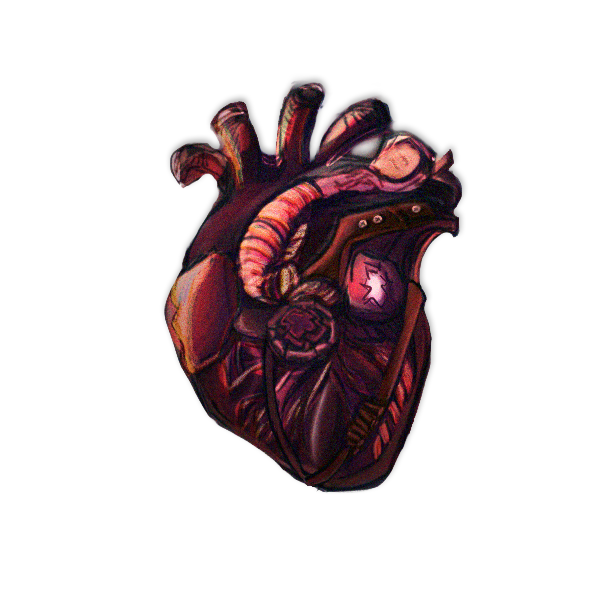
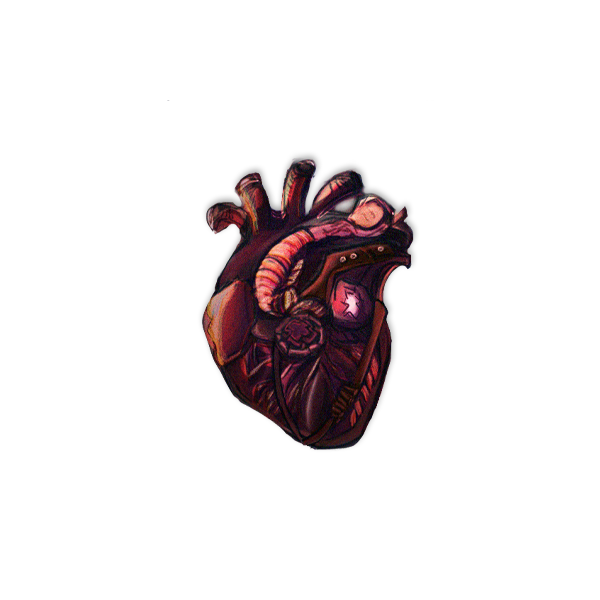
meow

Changed region(s): [[0.27, 0.12, 0.78, 0.84]]

diff --git a/styles.css b/styles.css
@@ -265,33 +265,33 @@ body {
 
 .project-art-heart {
   background:
-    radial-gradient(circle at 32% 42%, rgba(122, 37, 31, 0.48), transparent 52%),
-    linear-gradient(150deg, #25171a, #0f131d 55%, #0c1118);
+    url('Images/mech%20heart%202.png'),
+    radial-gradient(circle at 32% 42%, rgba(122, 37, 31, 0.34), transparent 52%),
+    linear-gradient(150deg, rgba(37, 23, 26, 0.34), rgba(15, 19, 29, 0.56) 55%, rgba(12, 17, 24, 0.72));
+  background-size: cover;
+  background-position: center;
 }
 
 .project-art-character {
-  background-image:
-    linear-gradient(160deg, rgba(196, 182, 160, 0.85), rgba(129, 118, 103, 0.82)),
-    repeating-linear-gradient(to right, rgba(48, 42, 36, 0.2) 0, rgba(48, 42, 36, 0.2) 1px, transparent 1px, transparent 28px),
-    url('Images/caster%20expressions%20sheet.png');
+  background-image: url('Images/caster%20expressions%20sheet.png');
   background-size: cover;
   background-position: 59% center;
 }
 
 .project-art-ui {
   background-image:
-    radial-gradient(circle at 72% 35%, rgba(154, 120, 68, 0.26), transparent 55%),
-    linear-gradient(130deg, #1b1920, #0f141d 50%, #1b130f),
-    url('Images/collector%20.png');
+    url('Images/motiongraphic.png'),
+    radial-gradient(circle at 72% 35%, rgba(154, 120, 68, 0.2), transparent 55%),
+    linear-gradient(130deg, rgba(27, 25, 32, 0.32), rgba(15, 20, 29, 0.5) 50%, rgba(27, 19, 15, 0.62));
   background-size: cover;
   background-position: center;
 }
 
 .project-art-env {
   background-image:
+    url('Images/walk_bg_pb.png'),
     radial-gradient(circle at 42% 44%, rgba(201, 154, 90, 0.24), transparent 50%),
-    linear-gradient(140deg, #2a2017, #16161a 55%, #121927),
-    url('Images/wide_alley(1).png');
+    linear-gradient(140deg, rgba(42, 32, 23, 0.34), rgba(22, 22, 26, 0.56) 55%, rgba(18, 25, 39, 0.66));
   background-size: cover;
   background-position: center;
 }

diff --git a/mechanical-heart.css b/mechanical-heart.css
@@ -642,15 +642,18 @@ body {
 
 .final-thumb-ui {
   background:
-    radial-gradient(circle at 65% 40%, rgba(194, 155, 95, 0.18), transparent 52%),
-    linear-gradient(145deg, #2a2019, #171a22 58%, #131b27);
+    url('Images/motiongraphic.png'),
+    radial-gradient(circle at 65% 40%, rgba(194, 155, 95, 0.16), transparent 52%),
+    linear-gradient(145deg, rgba(42, 32, 25, 0.34), rgba(23, 26, 34, 0.52) 58%, rgba(19, 27, 39, 0.64));
+  background-size: cover;
+  background-position: center;
 }
 
 .final-thumb-impl {
   background:
+    url('Images/implementation.png'),
     radial-gradient(circle at 37% 38%, rgba(133, 37, 31, 0.25), transparent 56%),
-    linear-gradient(145deg, #201916, #171a24 56%, #131a25),
-    url('Images/implementation.png');
+    linear-gradient(145deg, rgba(32, 25, 22, 0.42), rgba(23, 26, 36, 0.58) 56%, rgba(19, 26, 37, 0.66));
   background-size: cover;
   background-position: center;
 }

diff --git a/index.html b/index.html
@@ -61,11 +61,11 @@
             </div>
           </a>
 
-          <a class="project-card" href="#" aria-label="Environments and 3D work project">
+          <a class="project-card" href="#" aria-label="Environment and scene design project">
             <div class="project-art project-art-env" role="img" aria-label="Environment placeholder art"></div>
             <div class="project-copy">
-              <h3>ENVIRONMENTS &amp; 3D WORK</h3>
-              <p>Backgrounds, Props, 3D Assets</p>
+              <h3>ENVIRONMENT AND SCENE DESIGN</h3>
+              <p>Backgrounds and Props</p>
               <span>View Project <span aria-hidden="true">→</span></span>
             </div>
           </a>